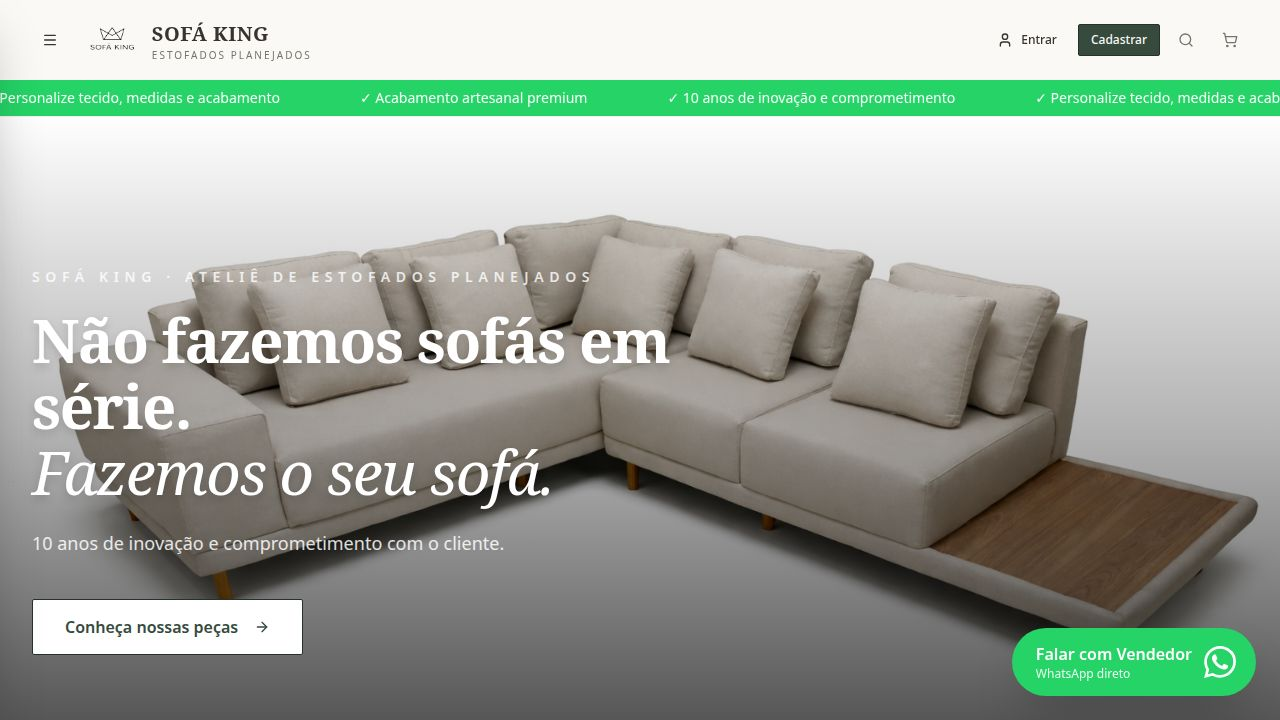
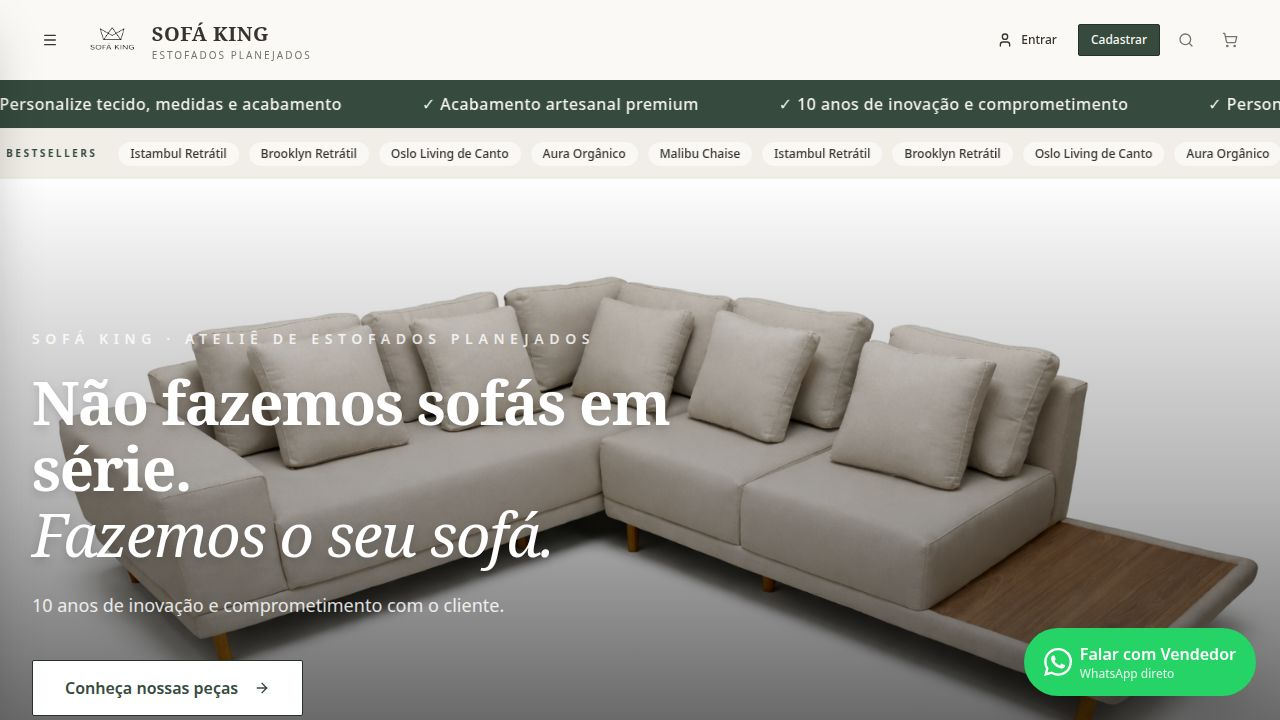
Organize product catalog into a dedicated page with search and filters
Introduce a new `/modelos` route for the product catalog, implement search and filtering by category and bestsellers, and remove the product grid from the homepage.

Replit-Commit-Author: Agent
Replit-Commit-Session-Id: 465b7c9c-dfb9-4116-8e0c-0a229da06522
Replit-Commit-Checkpoint-Type: full_checkpoint
Replit-Commit-Event-Id: b355d9e6-6243-4d57-b7a5-1da7bc1d20b4
Replit-Commit-Screenshot-Url: https://storage.googleapis.com/screenshot-production-us-central1/624c0100-ee46-4880-895e-99a1c8308ed1/465b7c9c-dfb9-4116-8e0c-0a229da06522/eUd0ZTj
Replit-Helium-Checkpoint-Created: true

diff --git a/artifacts/deploy-guide/src/pages/Modelos.tsx b/artifacts/deploy-guide/src/pages/Modelos.tsx
@@ -1,0 +1,257 @@
+import { Link, useLocation } from "wouter";
+import { ArrowRight, Search, X } from "lucide-react";
+import { Navbar } from "@/components/layout/Navbar";
+import { Footer } from "@/components/layout/Footer";
+import { useEffect, useState, useMemo } from "react";
+import { fetchProducts, trackView, type Product } from "@/lib/api";
+import { CATEGORIES, displayName, getCategory } from "@/lib/categories";
+
+const VALID_CATEGORY_IDS = new Set(CATEGORIES.map((c) => c.id));
+
+function useFilters(): { category: string; bestseller: boolean } {
+  const [location] = useLocation();
+  return useMemo(() => {
+    const noHash = location.split("#")[0];
+    const qs = noHash.includes("?") ? noHash.slice(noHash.indexOf("?") + 1) : "";
+    const search = qs || (typeof window !== "undefined" ? window.location.search.replace(/^\?/, "") : "");
+    const params = new URLSearchParams(search);
+    const raw = params.get("categoria") ?? "";
+    return {
+      category: VALID_CATEGORY_IDS.has(raw as any) ? raw : "",
+      bestseller: params.get("destaque") === "1",
+    };
+  }, [location]);
+}
+
+function normalize(s: string): string {
+  return s
+    .toLowerCase()
+    .normalize("NFD")
+    .replace(/[\u0300-\u036f]/g, "");
+}
+
+export default function Modelos() {
+  const [products, setProducts] = useState<Product[]>([]);
+  const [loading, setLoading] = useState(true);
+  const [query, setQuery] = useState("");
+  const { category: activeCategory, bestseller: onlyBestsellers } = useFilters();
+  const activeCatDef = getCategory(activeCategory);
+
+  useEffect(() => {
+    const path = onlyBestsellers
+      ? "/modelos?destaque=1"
+      : activeCategory ? `/modelos?categoria=${activeCategory}` : "/modelos";
+    trackView({ path });
+  }, [activeCategory, onlyBestsellers]);
+
+  useEffect(() => {
+    fetchProducts()
+      .then(setProducts)
+      .catch(() => {})
+      .finally(() => setLoading(false));
+  }, []);
+
+  const filteredProducts = useMemo(() => {
+    let avail = products.filter((p) => p.disponibilidade);
+    if (onlyBestsellers) avail = avail.filter((p) => p.bestseller);
+    if (activeCategory) avail = avail.filter((p) => p.category === activeCategory);
+    const q = normalize(query.trim());
+    if (q) {
+      avail = avail.filter((p) => {
+        const full = normalize(displayName(p.name, p.category));
+        return full.includes(q);
+      });
+    }
+    return [...avail].reverse();
+  }, [products, activeCategory, onlyBestsellers, query]);
+
+  const heading = onlyBestsellers
+    ? "⭐ Bestsellers"
+    : activeCatDef
+    ? activeCatDef.label
+    : "Todos os modelos";
+
+  return (
+    <div className="min-h-screen flex flex-col w-full bg-background selection:bg-primary/20">
+      <Navbar />
+
+      <main className="flex-grow pb-20 sm:pb-8">
+        <section className="py-12 md:py-16 bg-background">
+          <div className="container mx-auto px-4 sm:px-6 lg:px-8">
+            <div className="text-center mb-8 md:mb-10">
+              <p className="text-xs tracking-[0.4em] uppercase text-accent mb-3 font-semibold">Catálogo</p>
+              <h1 className="text-3xl md:text-5xl font-serif font-bold text-foreground mb-4" data-testid="text-catalog-title">
+                {heading}
+              </h1>
+              <div className="w-12 h-[2px] bg-accent mx-auto mb-5" />
+              <p className="text-muted-foreground text-base md:text-lg max-w-2xl mx-auto leading-relaxed">
+                Personalize cada peça em <strong className="text-foreground">metragem, tecido e espuma</strong>.
+              </p>
+            </div>
+
+            {/* Search */}
+            <div className="max-w-xl mx-auto mb-6 relative">
+              <Search className="w-5 h-5 text-muted-foreground absolute left-4 top-1/2 -translate-y-1/2 pointer-events-none" />
+              <input
+                type="text"
+                value={query}
+                onChange={(e) => setQuery(e.target.value)}
+                placeholder="Buscar por nome do modelo…"
+                className="w-full bg-background border border-border rounded-full py-3 pl-12 pr-12 text-sm focus:outline-none focus:ring-2 focus:ring-primary/40 focus:border-primary"
+                data-testid="input-search-products"
+              />
+              {query && (
+                <button
+                  type="button"
+                  onClick={() => setQuery("")}
+                  className="absolute right-4 top-1/2 -translate-y-1/2 text-muted-foreground hover:text-foreground"
+                  aria-label="Limpar busca"
+                  data-testid="button-clear-search"
+                >
+                  <X className="w-5 h-5" />
+                </button>
+              )}
+            </div>
+
+            {/* Filter pills */}
+            <div className="flex flex-wrap gap-2 justify-center mb-10" data-testid="category-filter">
+              <Link
+                href="/modelos"
+                className={`px-4 py-2 rounded-full text-sm font-medium border transition-colors ${
+                  !activeCategory && !onlyBestsellers
+                    ? "bg-primary text-primary-foreground border-primary"
+                    : "bg-background text-muted-foreground border-border hover:border-primary/50 hover:text-foreground"
+                }`}
+                data-testid="filter-category-todos"
+              >
+                Todos
+              </Link>
+              <Link
+                href="/modelos?destaque=1"
+                className={`px-4 py-2 rounded-full text-sm font-medium border transition-colors ${
+                  onlyBestsellers
+                    ? "bg-primary text-primary-foreground border-primary"
+                    : "bg-background text-muted-foreground border-border hover:border-primary/50 hover:text-foreground"
+                }`}
+                data-testid="filter-bestseller"
+              >
+                ⭐ Bestsellers
+              </Link>
+              {CATEGORIES.map((c) => (
+                <Link
+                  key={c.id}
+                  href={`/modelos?categoria=${c.id}`}
+                  className={`px-4 py-2 rounded-full text-sm font-medium border transition-colors ${
+                    activeCategory === c.id
+                      ? "bg-primary text-primary-foreground border-primary"
+                      : "bg-background text-muted-foreground border-border hover:border-primary/50 hover:text-foreground"
+                  }`}
+                  data-testid={`filter-category-${c.id}`}
+                >
+                  {c.label}
+                </Link>
+              ))}
+            </div>
+
+            {loading ? (
+              <div className="grid grid-cols-1 md:grid-cols-2 lg:grid-cols-3 gap-6">
+                {[1, 2, 3, 4, 5, 6].map((i) => (
+                  <div key={i} className="bg-muted/30 rounded-lg h-72 animate-pulse" />
+                ))}
+              </div>
+            ) : filteredProducts.length === 0 ? (
+              <div className="text-center py-16 border border-dashed border-border rounded-xl max-w-md mx-auto">
+                <p className="text-muted-foreground mb-4">
+                  {query
+                    ? `Nenhum modelo encontrado para "${query}".`
+                    : activeCatDef
+                    ? `Nenhum modelo de ${activeCatDef.label} disponível no momento.`
+                    : "Nenhum modelo disponível no momento."}
+                </p>
+                {(activeCatDef || onlyBestsellers || query) && (
+                  <button
+                    type="button"
+                    onClick={() => setQuery("")}
+                    className="text-primary font-medium hover:underline"
+                  >
+                    <Link href="/modelos">Ver todos os modelos</Link>
+                  </button>
+                )}
+              </div>
+            ) : (
+              <div className="grid grid-cols-1 sm:grid-cols-2 lg:grid-cols-3 gap-6">
+                {filteredProducts.map((product) => (
+                  <Link
+                    key={product.id}
+                    href={`/produto/${product.id}`}
+                    className="group group/card"
+                    data-testid={`card-product-${product.id}`}
+                  >
+                    <div className="flex flex-col h-full bg-card rounded-lg overflow-hidden border border-border/50 hover:border-primary/30 transition-all duration-500 hover:shadow-xl">
+                      <div className="relative aspect-[4/3] overflow-hidden bg-muted/30">
+                        {product.image ? (
+                          <img
+                            src={product.image}
+                            alt={displayName(product.name, product.category)}
+                            className="w-full h-full object-cover object-center transition-transform duration-700 group-hover/card:scale-105"
+                            loading="lazy"
+                          />
+                        ) : (
+                          <div className="w-full h-full flex items-center justify-center text-muted-foreground/50 text-xs">
+                            Sem foto
+                          </div>
+                        )}
+                        {product.category && (
+                          <span className="absolute top-3 left-3 text-[10px] font-semibold tracking-wider uppercase bg-white/90 backdrop-blur-sm text-foreground px-2.5 py-1 rounded-full border border-border/50">
+                            {getCategory(product.category)?.label}
+                          </span>
+                        )}
+                        {product.bestseller && (
+                          <span className="absolute top-3 right-3 text-[10px] font-bold tracking-wider uppercase bg-primary text-primary-foreground px-2.5 py-1 rounded-full">
+                            ⭐ Bestseller
+                          </span>
+                        )}
+                      </div>
+                      <div className="p-5 flex flex-col flex-grow">
+                        <div className="flex justify-between items-start mb-2 gap-3">
+                          <h3
+                            className="text-lg font-serif font-bold text-foreground group-hover/card:text-primary transition-colors leading-tight"
+                            data-testid={`text-product-name-${product.id}`}
+                          >
+                            {displayName(product.name, product.category)}
+                          </h3>
+                          {product.price > 0 && (
+                            <span
+                              className="text-base font-medium text-accent whitespace-nowrap"
+                              data-testid={`text-product-price-${product.id}`}
+                            >
+                              R$ {product.price.toLocaleString("pt-BR", { minimumFractionDigits: 2 })}
+                            </span>
+                          )}
+                        </div>
+                        {product.description && (
+                          <p
+                            className="text-sm text-muted-foreground leading-relaxed flex-grow line-clamp-2"
+                            data-testid={`text-product-desc-${product.id}`}
+                          >
+                            {product.description}
+                          </p>
+                        )}
+                        <div className="mt-4 pt-3 border-t border-border flex items-center justify-between text-xs font-medium text-primary">
+                          <span>Ver detalhes</span>
+                          <ArrowRight className="w-4 h-4 transform group-hover/card:translate-x-1 transition-transform" />
+                        </div>
+                      </div>
+                    </div>
+                  </Link>
+                ))}
+              </div>
+            )}
+          </div>
+        </section>
+      </main>
+
+      <Footer />
+    </div>
+  );
+}

diff --git a/artifacts/deploy-guide/src/components/layout/SideDrawer.tsx b/artifacts/deploy-guide/src/components/layout/SideDrawer.tsx
@@ -9,24 +9,24 @@ type MenuItem =
   | { label: string; children: { label: string; href: string }[] };
 
 const menu: MenuItem[] = [
-  { label: "⭐ BESTSELLERS", href: "/?destaque=1#produtos" },
-  { label: "TODOS OS MODELOS", href: "/#produtos" },
+  { label: "⭐ BESTSELLERS", href: "/modelos?destaque=1" },
+  { label: "TODOS OS MODELOS", href: "/modelos" },
   {
     label: "SOFÁS",
     children: [
-      { label: "Sofá Retrátil", href: "/?categoria=retratil#produtos" },
-      { label: "Sofá-cama", href: "/?categoria=cama#produtos" },
-      { label: "Sofá de Canto", href: "/?categoria=canto#produtos" },
-      { label: "Sofá Orgânico", href: "/?categoria=organicos#produtos" },
-      { label: "Sofá Living", href: "/?categoria=living#produtos" },
-      { label: "Sofá Fixo", href: "/?categoria=fixo#produtos" },
-      { label: "Sofá Chaise", href: "/?categoria=chaise#produtos" },
-      { label: "Sofá Ilha", href: "/?categoria=ilha#produtos" },
-      { label: "Módulos", href: "/?categoria=modulos#produtos" },
+      { label: "Sofá Retrátil", href: "/modelos?categoria=retratil" },
+      { label: "Sofá-cama", href: "/modelos?categoria=cama" },
+      { label: "Sofá de Canto", href: "/modelos?categoria=canto" },
+      { label: "Sofá Orgânico", href: "/modelos?categoria=organicos" },
+      { label: "Sofá Living", href: "/modelos?categoria=living" },
+      { label: "Sofá Fixo", href: "/modelos?categoria=fixo" },
+      { label: "Sofá Chaise", href: "/modelos?categoria=chaise" },
+      { label: "Sofá Ilha", href: "/modelos?categoria=ilha" },
+      { label: "Módulos", href: "/modelos?categoria=modulos" },
     ],
   },
-  { label: "POLTRONAS E PUFFS", href: "/#produtos" },
-  { label: "CAMA", href: "/#produtos" },
+  { label: "POLTRONAS E PUFFS", href: "/modelos" },
+  { label: "CAMA", href: "/modelos?categoria=cama" },
   { label: "PRAZO DE ENTREGA", href: "/#prazo-entrega" },
   { label: "GARANTIA", href: "/#garantia" },
   { label: "FORMA DE PAGAMENTO", href: "/#pagamento" },

diff --git a/artifacts/deploy-guide/src/App.tsx b/artifacts/deploy-guide/src/App.tsx
@@ -6,6 +6,7 @@ import { Toaster } from "@/components/ui/toaster";
 import { TooltipProvider } from "@/components/ui/tooltip";
 import NotFound from "@/pages/not-found";
 import Home from "@/pages/Home";
+import Modelos from "@/pages/Modelos";
 import Produto from "@/pages/Produto";
 import Carrinho from "@/pages/Carrinho";
 import Admin from "@/pages/Admin";
@@ -72,6 +73,7 @@ function Router() {
   return (
     <Switch>
       <Route path="/" component={Home} />
+      <Route path="/modelos" component={Modelos} />
       <Route path="/produto/:id" component={Produto} />
       <Route path="/carrinho" component={Carrinho} />
       <Route path="/sign-in/*?" component={SignInPage} />

diff --git a/artifacts/deploy-guide/src/pages/Home.tsx b/artifacts/deploy-guide/src/pages/Home.tsx
@@ -92,7 +92,7 @@ export default function Home() {
           </div>
         </section>
 
-        {/* Featured Products Section */}
+        {false && (
         <section id="produtos" className="py-24 bg-background scroll-mt-20">
           <div className="container mx-auto px-4 sm:px-6 lg:px-8">
             <div className="text-center mb-10">
@@ -212,6 +212,7 @@ export default function Home() {
             )}
           </div>
         </section>
+        )}
 
         {/* Manifesto / Sobre o Ateliê */}
         <section className="relative py-28 bg-gradient-to-b from-secondary/40 via-background to-background overflow-hidden">
